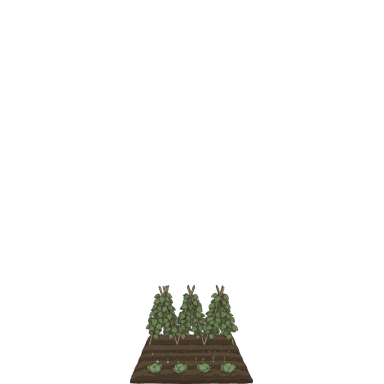
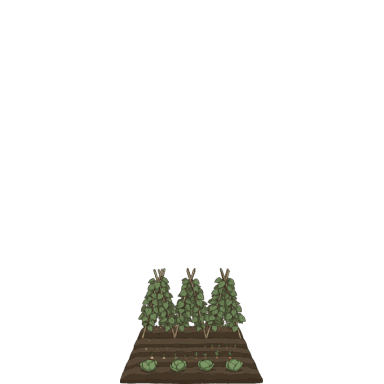
fix(combat): 戦闘の地面を「その側の駒が乗っている地形」に揃える
面地形（connect=area）は戦闘の地面に全周版の接続タイル（_c111111）を敷く。
窓の半面はぜんぶその地形なので、六方すべてが繋がっているのが正しい絵になる。
既定の絵（1本だけ通った帯）を並べていたので、道が何本も走り、両脇の下地まで
繰り返されていた。map_ground で重ねる下地にも同じ規則を効かせる。全周版が
無ければ既定の絵に戻す（絵の無い地形で穴を開けない）。

これに伴い、回避のために別の地形を指していた combat_ground を外す。道・石畳・
石畳2 は平地（草）を指しており、道マスに立つ駒の足元に草が描かれていた＝
「その側の地形が出る」という原則を破っていた。町（road_fort_town1）も盤では
道の上なのに戦闘では平地を指していたので road に直す。これで別の地形を描いて
いるスキンは無くなり、残る combat_ground はすべてオブジェクトが自分の足場を
指すもの（18件とも map_ground と一致）。

あわせて盤の見た目の調整。街区・菜園の object_foot_z を 0.2 → 0.45（マスの
中心より手前に降ろす。駒の0.6より小さいので同じマスなら駒が手前に立つ）、
菜園の map_scale を 0.6 → 0.7（高さ0.58＝街区の0.59と並ぶ）。

Changed region(s): [[0.3125, 0.6875, 0.6875, 1.0]]

diff --git a/doc/tech/combat_scene.md b/doc/tech/combat_scene.md
@@ -19,7 +19,8 @@
   - 隊列の後ろは、その側の本人（隊列の先頭スロット。`single` なら1体の立ち位置）の真後ろに立てる1枚（玉座など、そのマスに置かれた物を本人の背後に見せる）。帯（奥）と違い、駒と同じ物差しで置く＝駒の戦闘立ち絵と同じ幅のキャンバスを本人の中心xに、上端を駒のキャンバスの上端に揃えて描く。キャンバスが正方より縦に長いぶんは足元の線より下へ垂れる。大小・後ろへの引き・足元からの上下は絵のキャンバスの余白が持つ（駒と同じ仕組み。`terrain_skin.csv` の `combat_scale`＝ファイター何体ぶんの背丈、書き出しは `gen_terrain_tile.ps1 -CombatRear`、後ろへのずらしは `-RearShift <px>`、足元より下へは `-RearDrop <px>`）＝演出側に位置・大きさの定数を持たない。立ち絵より下のレイヤー＝本人も従者も手前に出る。絵は左陣営向き（物が右＝戦場の方を向く）に描き、右陣営では左右反転して使う。
   - 中央は継ぎ目（両隊列の間）に立てる1枚。柵や城壁を「壁越しの対峙」の絵にするのに使う＝壁越しにするかは絵の有無で決まる（コードでもCSVでも決めない）。手前（下）から奥（上）へ走るので窓の全高に渡し、幅は絵の縦横比が決める。立ち絵より下のレイヤー＝隊列は手前に出る。
   - 手前は足元に散らかる物（略奪品の山・橋の欄干）。その側の半面の下辺に接地させる。両方が同じ地形なら両半面に出る。幅は窓の半分、高さは絵の縦横比が決める。前列の足元に少し被せて額縁にする。絵は左半面用に描き、右半面では左右反転して使う。
-  - 既定が敷き詰めなので、`combat_ground` を書いていないスキンでも必ず地面が出る（穴が開かない）。壁は全ユニット移動不可＝駒が立てないので対象外。
+  - 面地形（`connect=area`＝道・石畳）は、戦闘では**全周版の接続タイル**（`{skin_id}_c111111.png`）を敷く。窓の半面はぜんぶその地形なので、六方すべてが同じ地形として繋がっているのが正しい絵。既定の絵（1本だけ通った帯）を並べると道が何本も走って見え、両脇の下地も一緒に繰り返される。`map_ground` で重ねる下地も同じ規則で引く。
+- 既定が敷き詰めなので、`combat_ground` を書いていないスキンでも必ず地面が出る（穴が開かない）。壁は全ユニット移動不可＝駒が立てないので対象外。
 - タイル画像が引けないスキンは地面を敷かず、窓の地形色（`TERRAIN_COLOR`・守り手の地形で1色）が出る＝どの地形が未整備か分かる（気付ける穴あき運用）。
 - 立ち絵は2Dのまま地面の上に重ねる（隊列の奥行きは位置と重なり順で出す＝下記）。地面は窓より少し広く取り、シェイクで縁が覗かないようにする。
 - 敷き方は盤のヘックス格子ではなく、手前から奥へ帯を積む。帯ごとにタイルを縮め、カメラの遠近に強制遠近を上乗せする。ここは盤ではないのでマス目が揃っている必要がなく、目盛りとして読ませないぶん絵の奥行きを取る。帯は半分以上重ねて手前を上に置く（瓦葺き）＝大きさの違う帯は列の位相がずれるので、重ねないと噛み合わせの谷に穴が開く。
